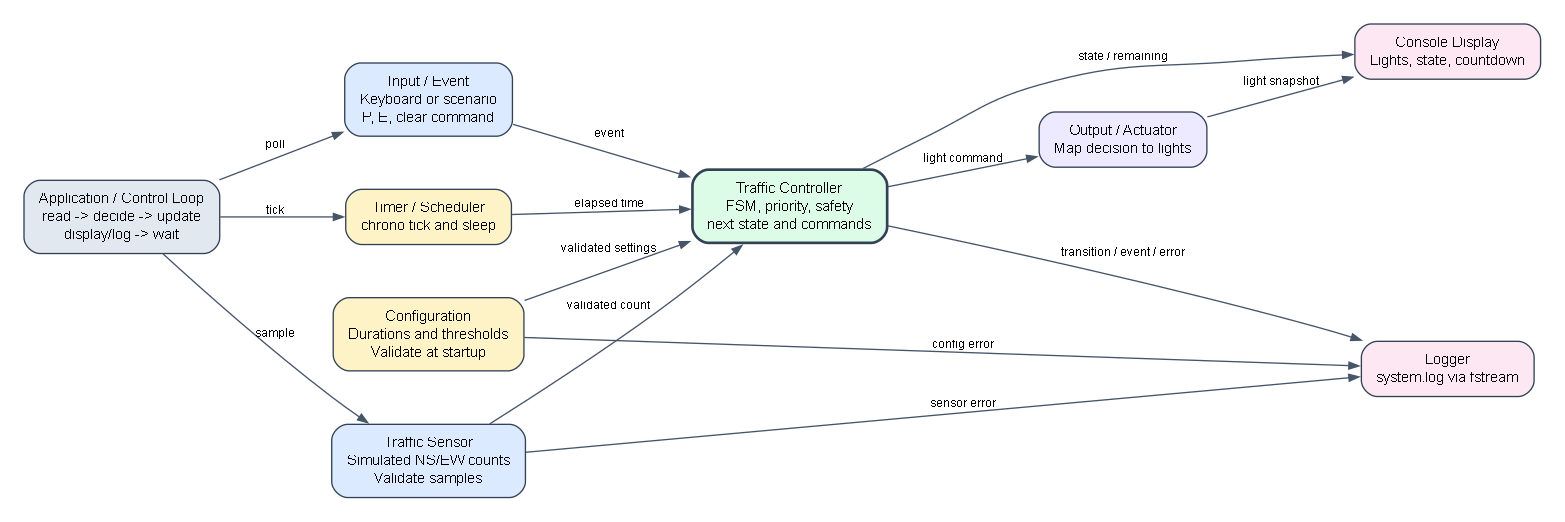
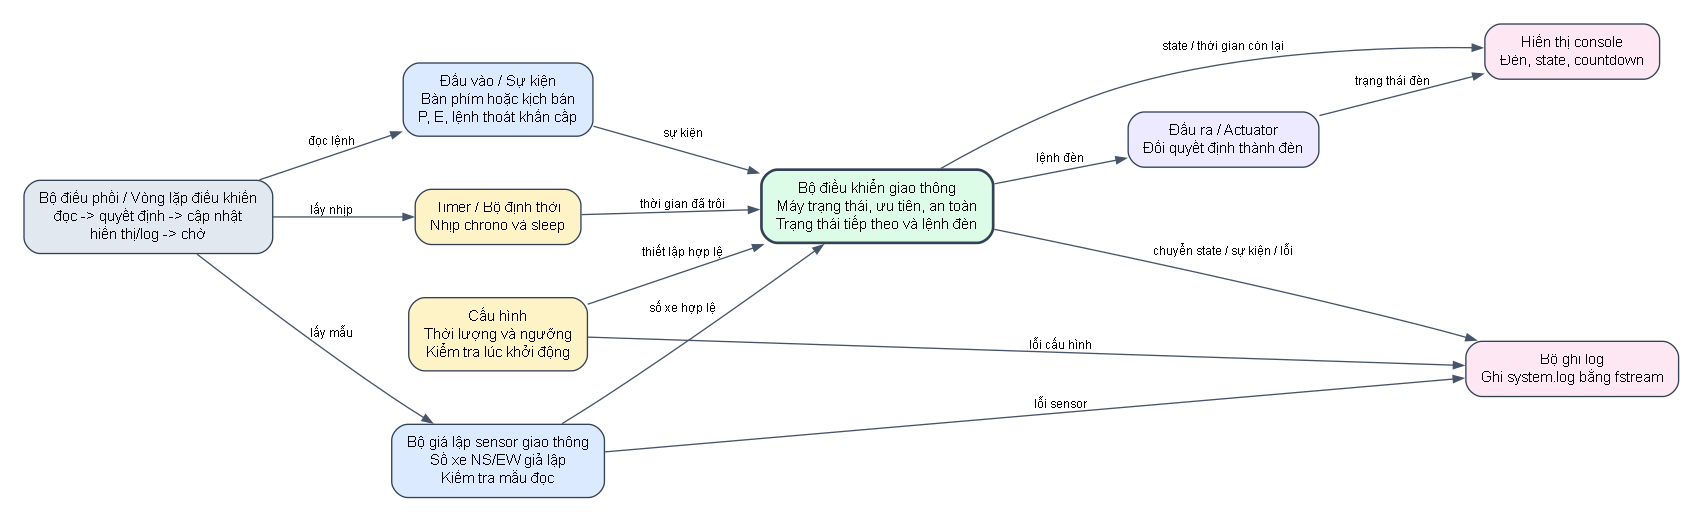
docs: translate requirements and diagrams to vietnamese

diff --git a/docs/REQUIREMENTS.md b/docs/REQUIREMENTS.md
@@ -1,165 +1,165 @@
-# Smart Traffic Light Controller Simulator - Requirements
+# Yêu cầu hệ thống - Bộ điều khiển đèn giao thông thông minh
 
-## 1. Authority and scope
+## 1. Thứ tự ưu tiên và phạm vi
 
-This document is the business-level source of truth for the project.
+Tài liệu này là nguồn chốt về hành vi nghiệp vụ của project.
 
-1. `Mock_Project_CPP_Embedded_Software_Simulation.docx.pdf` is the lecturer's primary specification. Its mandatory requirements and technical constraints take precedence.
-2. `Quy định và kịch bản vận hành Smart Traffic Light Controller.pdf` records the team's selected operating rules and advanced scope. It must not conflict with the lecturer's specification.
-3. The observable behavior below is fixed. The C++ representation is intentionally open: the controller may use separate enum values, a phase plus direction, and pending flags, or another clear design that preserves these rules.
+1. `Mock_Project_CPP_Embedded_Software_Simulation.docx.pdf` là đề bài gốc của giảng viên. Các yêu cầu bắt buộc và ràng buộc kỹ thuật trong đề có ưu tiên cao nhất.
+2. `Quy định và kịch bản vận hành Smart Traffic Light Controller.pdf` ghi lại các quy tắc vận hành và phần nâng cao mà nhóm đã chọn. Nội dung này không được mâu thuẫn với đề bài gốc.
+3. Hành vi quan sát được dưới đây là cố định. Cách biểu diễn trong C++ được để mở: Controller có thể dùng nhiều giá trị `enum`, hoặc dùng pha + hướng + cờ chờ, miễn là giữ đúng các quy tắc này.
 
-The program is a C++ console simulation. It models one intersection with two conflicting vehicle directions: North/South (NS) and East/West (EW). A single controller decides the complete intersection state; NS and EW are not independent traffic-light loops.
+Chương trình là mô phỏng C++ chạy trên console. Hệ thống mô phỏng một giao lộ với hai hướng xe xung đột: Bắc-Nam (NS) và Đông-Tây (EW). Một Controller chung quyết định trạng thái toàn bộ giao lộ; NS và EW không chạy hai chu kỳ độc lập.
 
-Out of scope: physical hardware, microcontrollers, GUI, database, network, Web API, camera, AI/ML, lane-level simulation, turning arrows, and real sensors.
+Ngoài phạm vi: phần cứng thật, vi điều khiển, GUI, cơ sở dữ liệu, mạng, Web API, camera, AI/ML, mô phỏng làn xe, mũi tên rẽ và sensor thật.
 
-## 2. Required system flow
+## 2. Luồng hệ thống bắt buộc
 
-The implementation must follow the lecturer's embedded-software simulation flow:
+Chương trình phải theo luồng mô phỏng phần mềm nhúng mà đề bài yêu cầu:
 
-`simulated sensor/event -> controller -> simulated actuator/output -> display and logger`
+`sensor/sự kiện giả lập -> controller -> actuator/đầu ra giả lập -> hiển thị và ghi log`
 
-`main()` initializes the modules and runs the control loop. Business decisions must not be duplicated in input, output, display, or `main()`.
+`main()` chỉ khởi tạo các thành phần và chạy vòng lặp điều khiển. Quyết định nghiệp vụ không được lặp lại trong phần nhập liệu, đầu ra, hiển thị hoặc `main()`.
 
-See [Block_Diagram.png](Block_Diagram.png) and its version-controlled source [Block_Diagram.dot](Block_Diagram.dot).
+Xem [Sơ đồ khối](Block_Diagram.png) và file nguồn có thể chỉnh sửa [Block_Diagram.dot](Block_Diagram.dot).
 
-## 3. Inputs
+## 3. Đầu vào
 
-| ID | Input | Required behavior |
+| Mã | Đầu vào | Hành vi yêu cầu |
 |---|---|---|
-| IN-01 | Timer tick | Drives the countdown and time-based transitions. |
-| IN-02 | `P` pedestrian request | Latches one pending pedestrian request. Repeated `P` while pending is coalesced, not queued. |
-| IN-03 | `E` emergency event | Has the highest operational priority and requests transition to the defined safe emergency condition. |
-| IN-04 | Clear-emergency event | Team-defined console/scenario event used to leave emergency mode. The final command spelling is a UI decision. |
-| IN-05 | NS/EW vehicle counts | Simulated sensor values used only to select the next GREEN duration for that direction. |
-| IN-06 | Configuration | Key/value settings for durations and density thresholds, loaded and validated before normal operation. |
+| IN-01 | Nhịp thời gian | Làm giảm countdown và kích hoạt chuyển pha theo thời gian. |
+| IN-02 | `P` - yêu cầu người đi bộ | Ghi nhận một yêu cầu đang chờ. Nhiều lần `P` khi đã chờ chỉ tính là một yêu cầu, không tạo hàng đợi. |
+| IN-03 | `E` - sự kiện khẩn cấp | Có ưu tiên vận hành cao nhất và yêu cầu hệ thống đi tới trạng thái khẩn cấp an toàn. |
+| IN-04 | Sự kiện thoát khẩn cấp | Sự kiện console/kịch bản do nhóm quy định để thoát Emergency. Ký tự lệnh cụ thể sẽ chốt khi thiết kế phần nhập liệu. |
+| IN-05 | Số xe NS/EW | Giá trị sensor giả lập, chỉ dùng để chọn thời lượng GREEN cho lượt kế tiếp của hướng đó. |
+| IN-06 | Cấu hình | Các cặp khóa/giá trị cho thời lượng và ngưỡng mật độ; được nạp và kiểm tra trước khi chạy bình thường. |
 
-Inputs may be generated by a scenario or entered from the keyboard. All input is validated before the controller acts on it.
+Đầu vào có thể được sinh từ kịch bản hoặc nhập từ bàn phím. Mọi đầu vào phải được kiểm tra hợp lệ trước khi Controller xử lý.
 
-## 4. Outputs and visible status
+## 4. Đầu ra và thông tin hiển thị
 
-At each control cycle, the console must display:
+Ở mỗi chu kỳ điều khiển, console phải hiển thị:
 
-- NS vehicle light and EW vehicle light.
-- Pedestrian light.
-- Current controller phase/state name.
-- Remaining time when the current phase is timed.
-- Pending pedestrian-request status.
+- Đèn xe NS và đèn xe EW.
+- Đèn người đi bộ.
+- Tên pha/trạng thái hiện tại.
+- Thời gian còn lại khi pha hiện tại có countdown.
+- Trạng thái có/không có yêu cầu người đi bộ đang chờ.
 
-The system writes `logs/system.log` using `fstream`. At minimum it logs state transitions, pedestrian requests, and emergency events. The selected team scope also logs pedestrian service, density changes/samples, sensor errors, configuration errors, and invalid input.
+Hệ thống ghi `logs/system.log` bằng `fstream`. Tối thiểu phải có log chuyển trạng thái, yêu cầu người đi bộ và sự kiện khẩn cấp. Theo phạm vi nhóm đã chọn, log cũng ghi việc phục vụ người đi bộ, mật độ/lần lấy mẫu, lỗi sensor, lỗi cấu hình và đầu vào không hợp lệ.
 
-## 5. Mandatory business behavior
+## 5. Hành vi nghiệp vụ bắt buộc
 
-### REQ-01 - Vehicle signal cycle
+### REQ-01 - Chu kỳ đèn xe
 
-Each vehicle direction supports RED, GREEN, and YELLOW. Normal operation alternates the right of way between NS and EW. A vehicle GREEN phase has a finite duration and always changes to that direction's YELLOW before another conflicting direction receives GREEN.
+Mỗi hướng xe có RED, GREEN và YELLOW. Ở chế độ bình thường, quyền đi luân phiên giữa NS và EW. GREEN có thời lượng hữu hạn và luôn chuyển sang YELLOW của chính hướng đó trước khi một hướng xung đột được cấp GREEN.
 
-### REQ-02 - Safety clearance
+### REQ-02 - Khoảng an toàn ALL-RED
 
-Before granting GREEN to a conflicting movement, the controller provides an ALL-RED clearance interval. In ALL-RED, NS, EW, and pedestrian lights are RED.
+Trước khi cấp GREEN cho một hướng xung đột, Controller phải có khoảng ALL-RED. Khi ALL-RED, đèn NS, EW và người đi bộ đều RED.
 
-### REQ-03 - Countdown and timing
+### REQ-03 - Countdown và định thời
 
-Every timed phase has a visible countdown. Timing uses `std::chrono` and `std::this_thread::sleep_for()` in the application/control loop. The controller receives elapsed/tick information; it does not block on keyboard input.
+Mọi pha có thời lượng đều có countdown để hiển thị. Timing dùng `std::chrono` và `std::this_thread::sleep_for()` trong Application/vòng lặp điều khiển. Controller nhận nhịp thời gian; Controller không được chặn việc đọc bàn phím.
 
-### REQ-04 - Pedestrian request and safe service
+### REQ-04 - Yêu cầu người đi bộ và phục vụ an toàn
 
-`P` does not turn the pedestrian light GREEN immediately. The request is served at the next safe decision point after the active vehicle phase completes its GREEN, YELLOW, and clearance sequence.
+`P` không được làm đèn người đi bộ chuyển GREEN ngay lập tức. Yêu cầu chỉ được phục vụ ở điểm quyết định an toàn gần nhất, sau khi lượt xe hiện tại hoàn thành GREEN, YELLOW và clearance.
 
-Pedestrian service is exclusive:
+Phần người đi bộ là độc quyền:
 
-- During pedestrian WALK and pedestrian WARNING, NS and EW are both RED.
-- The pending request is cleared when service starts, not when it finishes.
-- A new `P` during a pedestrian phase creates one request for a later pedestrian phase.
-- A pedestrian phase cannot repeatedly take turns without first allowing the next vehicle direction one GREEN phase.
+- Trong WALK và WARNING, NS và EW đều RED.
+- Yêu cầu đang chờ được xóa khi bắt đầu phục vụ, không phải khi kết thúc phục vụ.
+- `P` mới trong pha người đi bộ tạo một yêu cầu cho lượt người đi bộ sau.
+- Không được phục vụ liên tiếp nhiều pha người đi bộ khi chưa cho hướng xe kế tiếp một lượt GREEN.
 
-### REQ-05 - Density-based GREEN duration
+### REQ-05 - Thời lượng GREEN theo mật độ
 
-The selected advanced behavior supports separate NS and EW traffic-density sensor values. Density changes only the finite GREEN duration for the direction about to start; it does not change the NS/EW alternation, bypass safety clearance, override a pedestrian request, or override emergency handling.
+Phần nâng cao nhóm chọn cho phép quản lý số xe NS và EW riêng. Mật độ chỉ thay đổi thời lượng GREEN hữu hạn của hướng sắp bắt đầu; không thay đổi thứ tự luân phiên NS/EW, không bỏ ALL-RED, không ghi đè yêu cầu người đi bộ và không ghi đè Emergency.
 
-The controller samples a direction's sensor before that direction's GREEN begins. A new value during GREEN applies on that direction's next turn.
+Controller lấy mẫu sensor của một hướng ngay trước khi GREEN của hướng đó bắt đầu. Giá trị đổi trong lúc GREEN chỉ áp dụng ở lượt sau của chính hướng đó.
 
-Default team values are configurable, not hard-coded across modules:
+Các giá trị mặc định của nhóm phải đặt trong cấu hình hoặc hằng số tập trung, không hard-code rải rác:
 
-| Setting | Default |
+| Thiết lập | Mặc định |
 |---|---:|
-| GREEN_LOW | 15 s |
-| GREEN_MEDIUM | 20 s |
-| GREEN_HIGH | 25 s |
-| YELLOW_TIME | 3 s |
-| ALL_RED_TIME | 2 s |
-| PED_WALK_TIME | 10 s |
-| PED_WARNING_TIME | 5 s |
-| LOW threshold | 0-5 vehicles |
-| MEDIUM threshold | 6-15 vehicles |
-| HIGH threshold | 16+ vehicles |
+| GREEN_LOW | 15 giây |
+| GREEN_MEDIUM | 20 giây |
+| GREEN_HIGH | 25 giây |
+| YELLOW_TIME | 3 giây |
+| ALL_RED_TIME | 2 giây |
+| PED_WALK_TIME | 10 giây |
+| PED_WARNING_TIME | 5 giây |
+| Ngưỡng LOW | 0-5 xe |
+| Ngưỡng MEDIUM | 6-15 xe |
+| Ngưỡng HIGH | từ 16 xe |
 
-### REQ-06 - Emergency mode
+### REQ-06 - Chế độ khẩn cấp
 
-Emergency has priority above pedestrian service, normal cycling, and density optimization. The safe emergency condition is:
+Emergency có ưu tiên cao hơn phục vụ người đi bộ, chu kỳ xe và tối ưu mật độ. Trạng thái khẩn cấp an toàn là:
 
 `NS = RED, EW = RED, Pedestrian = RED`.
 
-The controller must preserve clearance safety rather than changing a vehicle GREEN directly to RED. In business terms, an emergency occurring during vehicle GREEN completes the required YELLOW and ALL-RED path before entering emergency; an emergency during pedestrian WALK allows pedestrian warning/clearance before emergency. If already in a clearance phase, the controller finishes the relevant clearance and then enters emergency.
+Controller phải giữ an toàn clearance, không chuyển thẳng đèn xe từ GREEN sang RED. Về nghiệp vụ: Emergency xuất hiện khi xe GREEN thì hệ thống đi qua YELLOW và ALL-RED trước khi vào Emergency; Emergency xuất hiện khi người đi bộ WALK thì hệ thống đi qua WARNING/clearance trước khi vào Emergency. Nếu đang ở pha clearance, Controller hoàn thành clearance liên quan rồi vào Emergency.
 
-After the clear-emergency event, the controller does not resume an old countdown. It starts a new deterministic normal cycle from a safe ALL-RED startup path and then grants NS the first GREEN turn. A pending pedestrian request remains pending until it can be served safely.
+Khi nhận sự kiện thoát Emergency, Controller không khôi phục countdown cũ. Hệ thống khởi động lại một chu kỳ bình thường mới qua ALL-RED an toàn, rồi cấp lượt GREEN đầu tiên cho NS. Yêu cầu người đi bộ đang chờ vẫn được giữ tới khi có thể phục vụ an toàn.
 
-### REQ-07 - Validation and abnormal handling
+### REQ-07 - Kiểm tra dữ liệu và xử lý bất thường
 
-The project must handle at least two abnormal cases without crashing:
+Project phải xử lý tối thiểu hai tình huống bất thường mà không crash:
 
-1. A negative or otherwise invalid sensor count is not classified as normal density. It is logged as `SENSOR_ERROR`; the active timer is unchanged and a safe fallback duration is used when that direction next starts GREEN.
-2. Invalid configuration, such as non-positive durations or invalid threshold ordering, is rejected. The system logs `CONFIG_ERROR` and uses the full default configuration.
+1. Số xe âm hoặc không hợp lệ không được phân loại thành mật độ bình thường. Hệ thống ghi `SENSOR_ERROR`; timer đang chạy không đổi và dùng thời lượng fallback an toàn khi hướng đó bắt đầu GREEN ở lượt sau.
+2. Cấu hình không hợp lệ, ví dụ thời lượng không dương hoặc thứ tự ngưỡng sai, bị từ chối. Hệ thống ghi `CONFIG_ERROR` và dùng toàn bộ cấu hình mặc định.
 
-Invalid keyboard/scenario commands are reported and logged as input errors; they must not corrupt the controller state.
+Lệnh từ bàn phím/kịch bản không hợp lệ phải được báo và ghi log lỗi; chúng không được làm sai trạng thái Controller.
 
-## 6. Invariants and priority
+## 6. Bất biến an toàn và thứ tự ưu tiên
 
-The controller must enforce these invariants at all times:
+Controller phải giữ các bất biến sau ở mọi thời điểm:
 
-1. NS GREEN and EW GREEN never occur together.
-2. Pedestrian GREEN never occurs with a vehicle GREEN.
-3. Pedestrian WALK or WARNING requires NS RED and EW RED.
-4. Emergency requires all lights RED.
-5. Vehicle GREEN is finite and is followed by that direction's YELLOW.
-6. A request accepted for pedestrian service is not silently discarded.
-7. Density never changes the direction alternation or a GREEN duration already in progress.
+1. NS GREEN và EW GREEN không bao giờ cùng xảy ra.
+2. Người đi bộ GREEN không bao giờ cùng xảy ra với xe GREEN.
+3. Trong WALK hoặc WARNING, NS và EW đều RED.
+4. Trong Emergency, tất cả đèn đều RED.
+5. Xe GREEN có thời lượng hữu hạn và sau đó là YELLOW của chính hướng đó.
+6. Yêu cầu người đi bộ đã chấp nhận không được tự mất.
+7. Mật độ không được thay đổi thứ tự luân phiên hoặc thời lượng GREEN đang chạy.
 
-Decision priority is: safety, emergency, clearance/transition completion, pedestrian request, normal vehicle alternation, then density-based duration selection.
+Thứ tự ưu tiên khi ra quyết định là: an toàn, Emergency, hoàn tất clearance/chuyển pha, yêu cầu người đi bộ, luân phiên xe bình thường, rồi mới đến chọn thời lượng theo mật độ.
 
-See [State_Diagram.png](State_Diagram.png) and its version-controlled source [State_Diagram.dot](State_Diagram.dot).
+Xem [Sơ đồ trạng thái](State_Diagram.png) và file nguồn [State_Diagram.dot](State_Diagram.dot).
 
-## 7. Acceptance scenarios
+## 7. Kịch bản chấp nhận
 
-| ID | Scenario | Expected result |
+| Mã | Kịch bản | Kết quả mong đợi |
 |---|---|---|
-| AT-01 | Normal operation | Vehicle movement alternates with GREEN -> YELLOW -> ALL-RED; countdown and logs are visible. |
-| AT-02 | `P` during vehicle GREEN | Request is logged and served only at the next safe decision point. |
-| AT-03 | Pedestrian WALK | Pedestrian is GREEN while both vehicle directions are RED. |
-| AT-04 | Repeated `P` | Multiple presses while pending produce one pending service, not a queue. |
-| AT-05 | `P` during pedestrian phase | The new request waits until at least the next vehicle GREEN phase completes. |
-| AT-06 | Emergency during vehicle GREEN | The system follows clearance, enters all-RED emergency, and logs the event. |
-| AT-07 | Clear emergency | The old countdown is discarded; the normal cycle safely restarts from NS. |
-| AT-08 | Density change | The next relevant GREEN duration changes, but NS/EW order does not. |
-| AT-09 | Invalid sensor input | Error is logged; no invalid density decision or crash occurs. |
-| AT-10 | Invalid configuration | Default configuration is used and the error is logged. |
+| AT-01 | Chạy bình thường | Quyền đi luân phiên GREEN -> YELLOW -> ALL-RED; có countdown và log. |
+| AT-02 | `P` trong lúc xe GREEN | Request được log và chỉ phục vụ ở điểm quyết định an toàn. |
+| AT-03 | Người đi bộ WALK | Pedestrian GREEN trong khi hai hướng xe đều RED. |
+| AT-04 | Nhấn `P` lặp lại | Nhiều lần nhấn khi đang chờ chỉ tạo một request, không tạo queue. |
+| AT-05 | `P` trong pha người đi bộ | Request mới chờ đến sau ít nhất một lượt xe GREEN. |
+| AT-06 | Emergency trong lúc xe GREEN | Hệ thống qua clearance, vào Emergency toàn RED và ghi log. |
+| AT-07 | Thoát Emergency | Countdown cũ bị bỏ; chu kỳ khởi động lại an toàn từ NS. |
+| AT-08 | Mật độ thay đổi | GREEN ở lượt kế tiếp đổi thời lượng, nhưng thứ tự NS/EW không đổi. |
+| AT-09 | Sensor không hợp lệ | Có log lỗi; không phân loại mật độ sai và không crash. |
+| AT-10 | Cấu hình không hợp lệ | Dùng cấu hình mặc định và ghi log lỗi. |
 
-## 8. Technical and delivery constraints
+## 8. Ràng buộc kỹ thuật và sản phẩm nộp
 
-- C++ console application; no external library is required.
-- Split public declarations in `.h` files from implementations in `.cpp` files when a module has a public contract.
-- Use meaningful class/function names, `enum class` where suitable, and basic `array`/`vector` when needed.
-- Keep durations and thresholds in configuration/constants, not scattered magic numbers.
-- Provide build/run instructions, test cases with results, diagrams, logs, and meaningful commits from every member.
-- The team must be able to explain the controller's next-state and output decision in the defense.
+- Ứng dụng C++ chạy console; không cần thư viện ngoài.
+- Tách khai báo công khai trong `.h` và phần cài đặt trong `.cpp` khi module có hợp đồng công khai.
+- Dùng tên class/hàm có nghĩa, `enum class` khi phù hợp và `array`/`vector` cơ bản khi cần.
+- Thời lượng và ngưỡng nằm trong config/hằng số, không dùng magic number rải rác.
+- Có hướng dẫn build/run, test case kèm kết quả, sơ đồ, log và commit có ý nghĩa từ mọi thành viên.
+- Khi defense, nhóm phải giải thích được Controller quyết định state tiếp theo và output như thế nào.
 
-## 9. Design freedom kept open
+## 9. Các lựa chọn còn để mở
 
-The following are intentionally not fixed by this requirements document:
+Các nội dung sau cố ý chưa bị chốt trong requirements:
 
-- Exact `enum class` member names and the number of internal states.
-- Whether ALL-RED destinations are represented as distinct states or as one phase with direction/pending metadata.
-- Class names and file granularity, provided module responsibilities remain clear.
-- Exact keyboard command syntax and scenario-file format.
-- The internal parser implementation for `default.cfg`.
+- Tên phần tử `enum class` và số lượng state nội bộ chính xác.
+- Dùng nhiều ALL-RED state riêng hay dùng một phase ALL-RED kèm dữ liệu hướng đích/cờ chờ.
+- Tên class và mức độ tách file, miễn trách nhiệm module rõ ràng.
+- Cú pháp lệnh bàn phím và định dạng file kịch bản.
+- Cách cài đặt parser cho `default.cfg`.
 
-Any implementation choice must preserve the requirements, invariants, diagrams, and acceptance scenarios above.
+Mọi lựa chọn cài đặt phải giữ đúng requirements, bất biến an toàn, sơ đồ và kịch bản chấp nhận ở trên.
